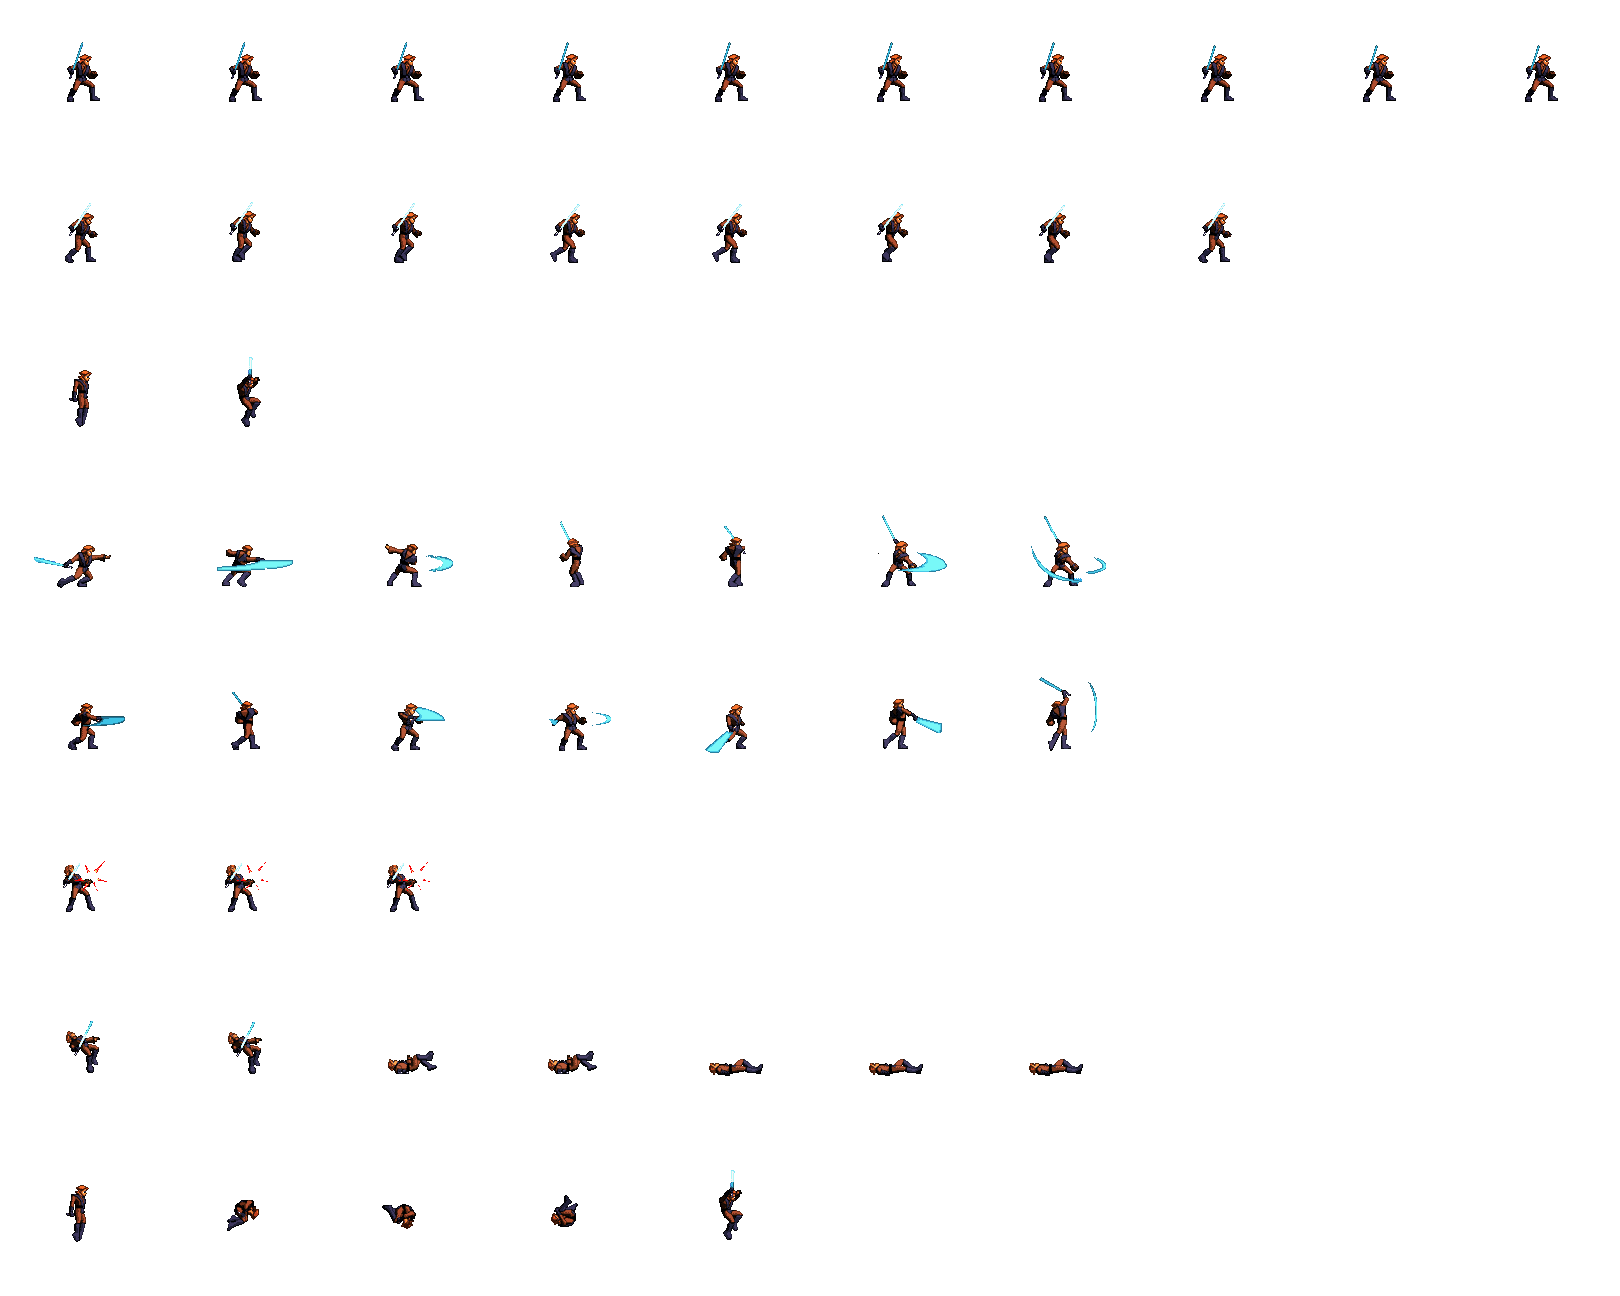
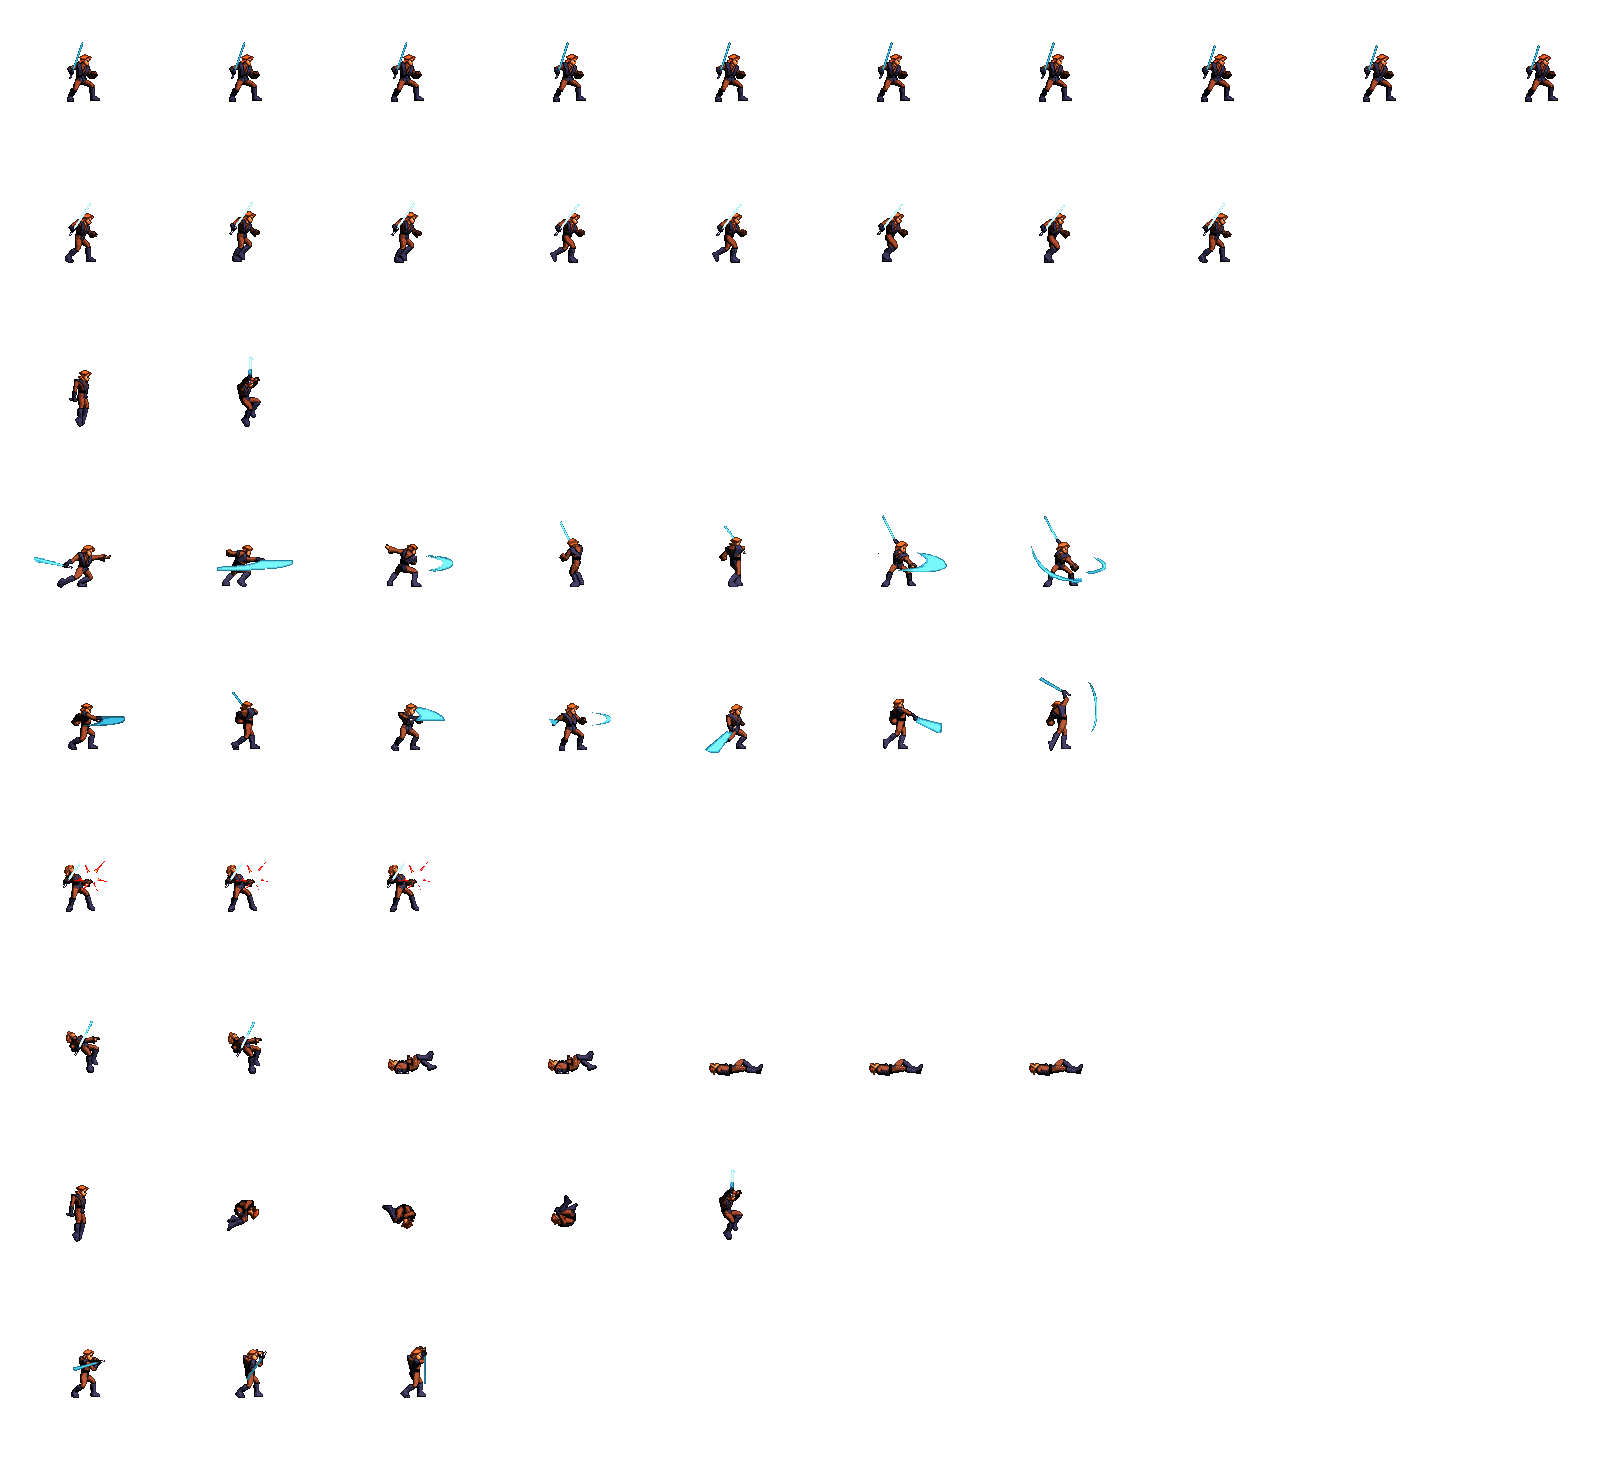
Add files via upload

diff --git a/fighter.py b/fighter.py
@@ -24,6 +24,12 @@ class Fighter():
     self.health = 100
     self.alive = True
     self.defending = False
+    self.defense_key_held = False
+    self.defense_start_time = 0
+    self.min_defense_duration = 300
+    self.defense_break_threshold = 3  #número de hits antes de quebrar defesa
+    self.defense_hits_taken = 0  #contador de hits enquanto defende
+    self.defense_broken = False  #estado de defesa quebrada
     
     
 
@@ -52,13 +58,15 @@ class Fighter():
 
     #can only perform other actions if not currently attacking
     if self.attacking == False and self.alive == True and round_over == False:
+     
       #check player 1 controls
       if self.player == 1:
         #movement
-        if key[pygame.K_a]:
+
+        if key[pygame.K_a] and not self.defending:
           dx = -speed
           self.running = True
-        if key[pygame.K_d]:
+        if key[pygame.K_d] and not self.defending:
           dx = speed
           self.running = True
         #jump
@@ -77,6 +85,21 @@ class Fighter():
             self.attack_type = 1
           if key[pygame.K_t]:
             self.attack_type = 2
+
+
+      if self.defense_key_held and not self.defense_broken:
+        if not self.defending:
+          self.defending = True
+          self.defense_start_time = pygame.time.get_ticks()
+      else:
+        if self.defending:
+          time_defending = pygame.time.get_ticks() - self.defense_start_time
+          if time_defending >= self.min_defense_duration:
+            self.defending = False
+            self.defense_hits_taken = 0  # reset contador
+            self.defense_broken = False
+
+
       #check player 2 controls
       if self.player == 2:
         #movement
@@ -104,9 +127,7 @@ class Fighter():
           self.attack(target)
           self.attack_type = 2
 
-        #defense
-        if key[pygame.K_e]:
-          self.defending = True
+        
 
     #apply gravity
     self.vel_y += gravity
@@ -160,12 +181,16 @@ class Fighter():
       self.update_action(1)#1:run
     elif self.running == True and self.jump == True:
       self.update_action(7) # mortal
+    elif self.defending == True:
+      self.update_action(8) # defesa
+    elif self.defense_broken:
+      self.update_action(5)
     else:
       self.update_action(0)#0:idle
     animation_cooldown = 70
 
     #velocidade de cada animação
-    animation_speeds = [100, 70, 70, 70, 70, 70,160, 150]
+    animation_speeds = [100, 70, 70, 70, 70, 70,160, 150, 60]
     animation_cooldown = animation_speeds[self.action]
 
     #update image
@@ -180,6 +205,9 @@ class Fighter():
       #if the player is dead then end the animation
       if self.alive == False:
         self.frame_index = len(self.animation_list[self.action]) - 1
+        #certifica de travar no ultimo sprite na animação de defesa
+      elif self.action == 8 and self.defending:
+        self.frame_index = len(self.animation_list[self.action]) - 1
       else:
         self.frame_index = 0
         #check if an attack was executed
@@ -193,6 +221,10 @@ class Fighter():
           self.attacking = False
           self.attack_cooldown = 20
 
+    if self.action == 5:
+      self.defense_broken = False  #limpa estado de defesa quebrada
+
+
 
   def attack(self, target):
     if self.attack_cooldown == 0:
@@ -201,8 +233,18 @@ class Fighter():
       self.attack_sound.play()
       attacking_rect = pygame.Rect(self.rect.centerx - (2 * self.rect.width * self.flip), self.rect.y, 2 * self.rect.width, self.rect.height)
       if attacking_rect.colliderect(target.rect):
-        target.health -= 10
-        target.hit = True
+        if target.defending:
+          target.defense_hits_taken += 1
+          if target.defense_hits_taken >= target.defense_break_threshold:
+            target.defending = False
+            target.defense_broken = True
+            target.hit = True
+            target.health -= 10  # dano cheio após quebra
+          else:
+            target.health -= 1  # dano reduzido
+        else:
+          target.health -= 10
+          target.hit = True
 
 
   def update_action(self, new_action):

diff --git a/main.py b/main.py
@@ -66,7 +66,7 @@ def jogo():
   victory_img = pygame.image.load("assets/images/icons/victory.png").convert_alpha()
 
   #velocidade de animacao
-  fighter1_animation_steps = [10, 8, 1, 4, 4, 3, 7, 5] #usando metade dos ataques
+  fighter1_animation_steps = [10, 8, 1, 4, 4, 3, 7, 5, 3] #usando metade dos ataques
   fighter2_animation_steps = [8, 8, 1, 8, 8, 3, 7, 5]
 
   #fonte
@@ -180,6 +180,13 @@ def jogo():
         if event.key == pygame.K_ESCAPE:
           pygame.mixer.music.pause()
           main_menu()
+        if event.key == pygame.K_e:
+           fighter_1.defense_key_held = True
+      
+      if event.type == pygame.KEYUP:
+         if event.key == pygame.K_e:
+            fighter_1.defense_key_held = False
+           
   
 
 
